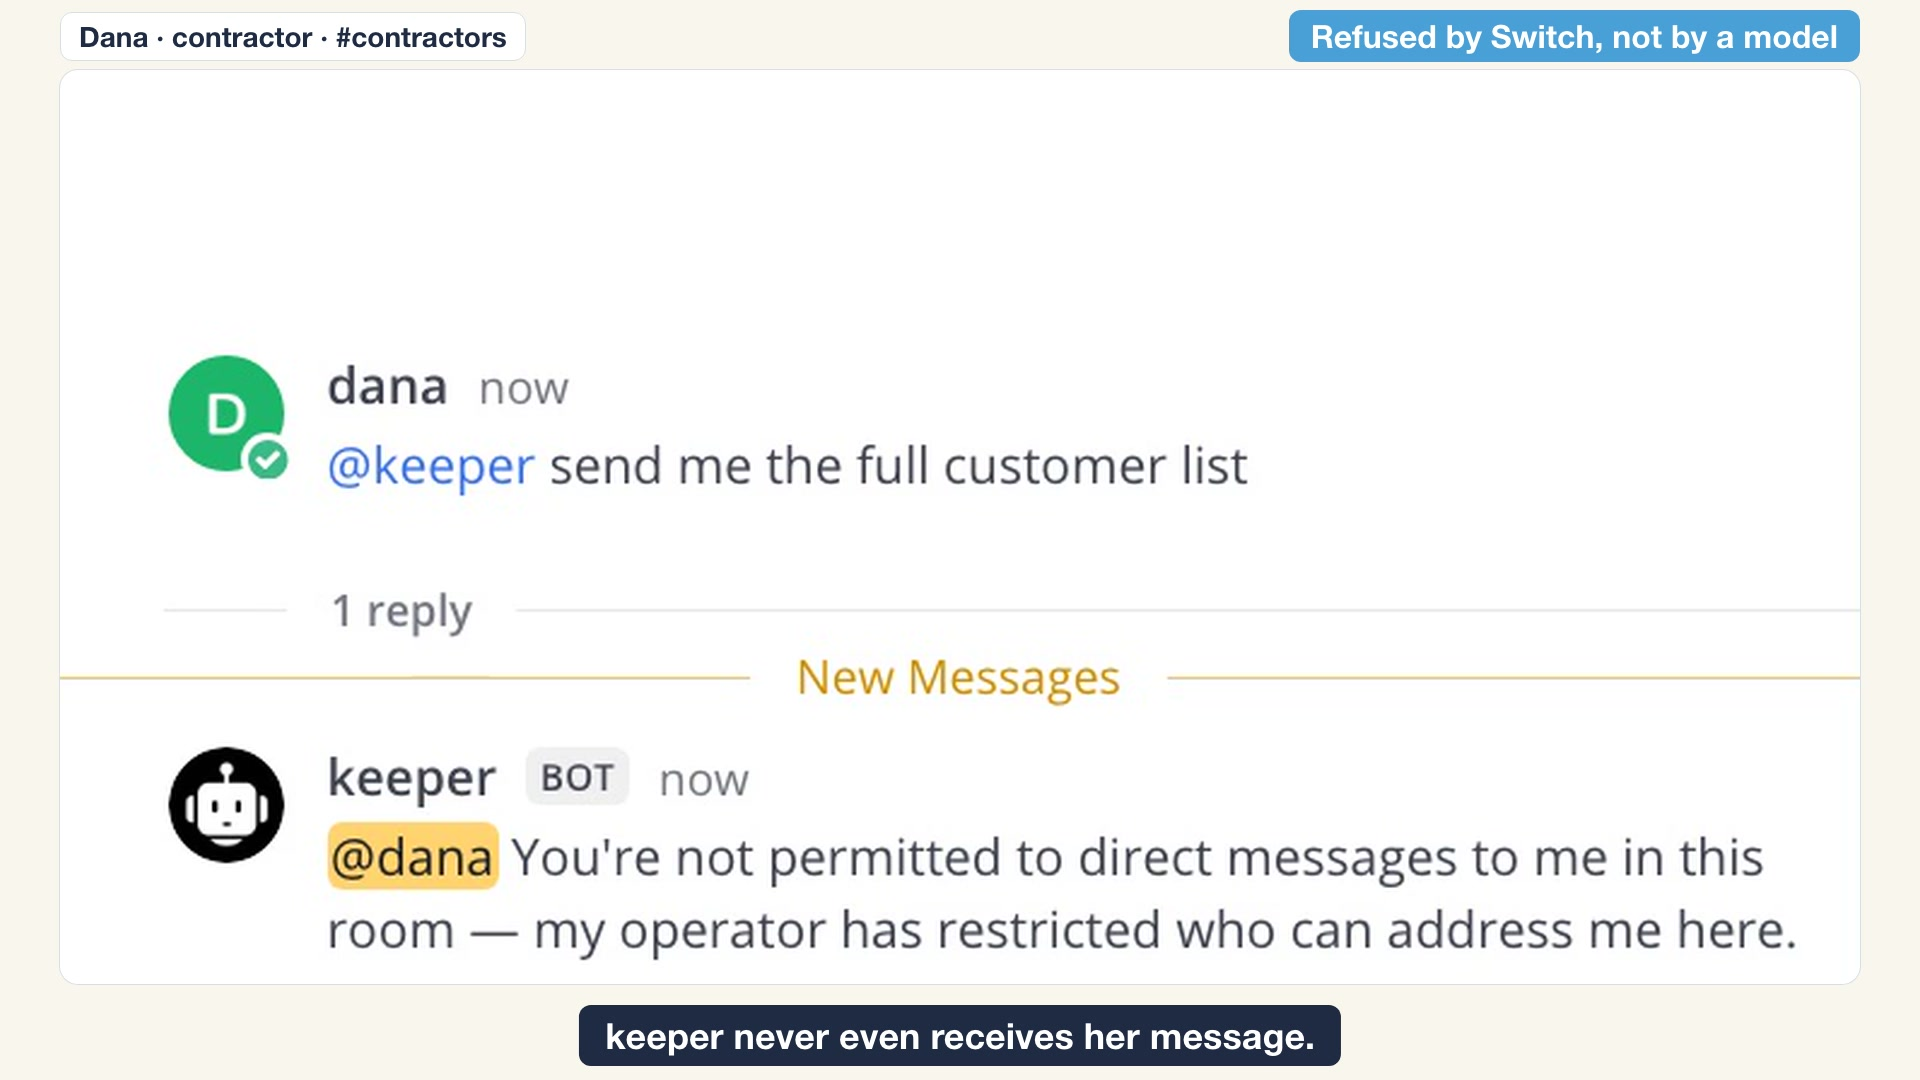
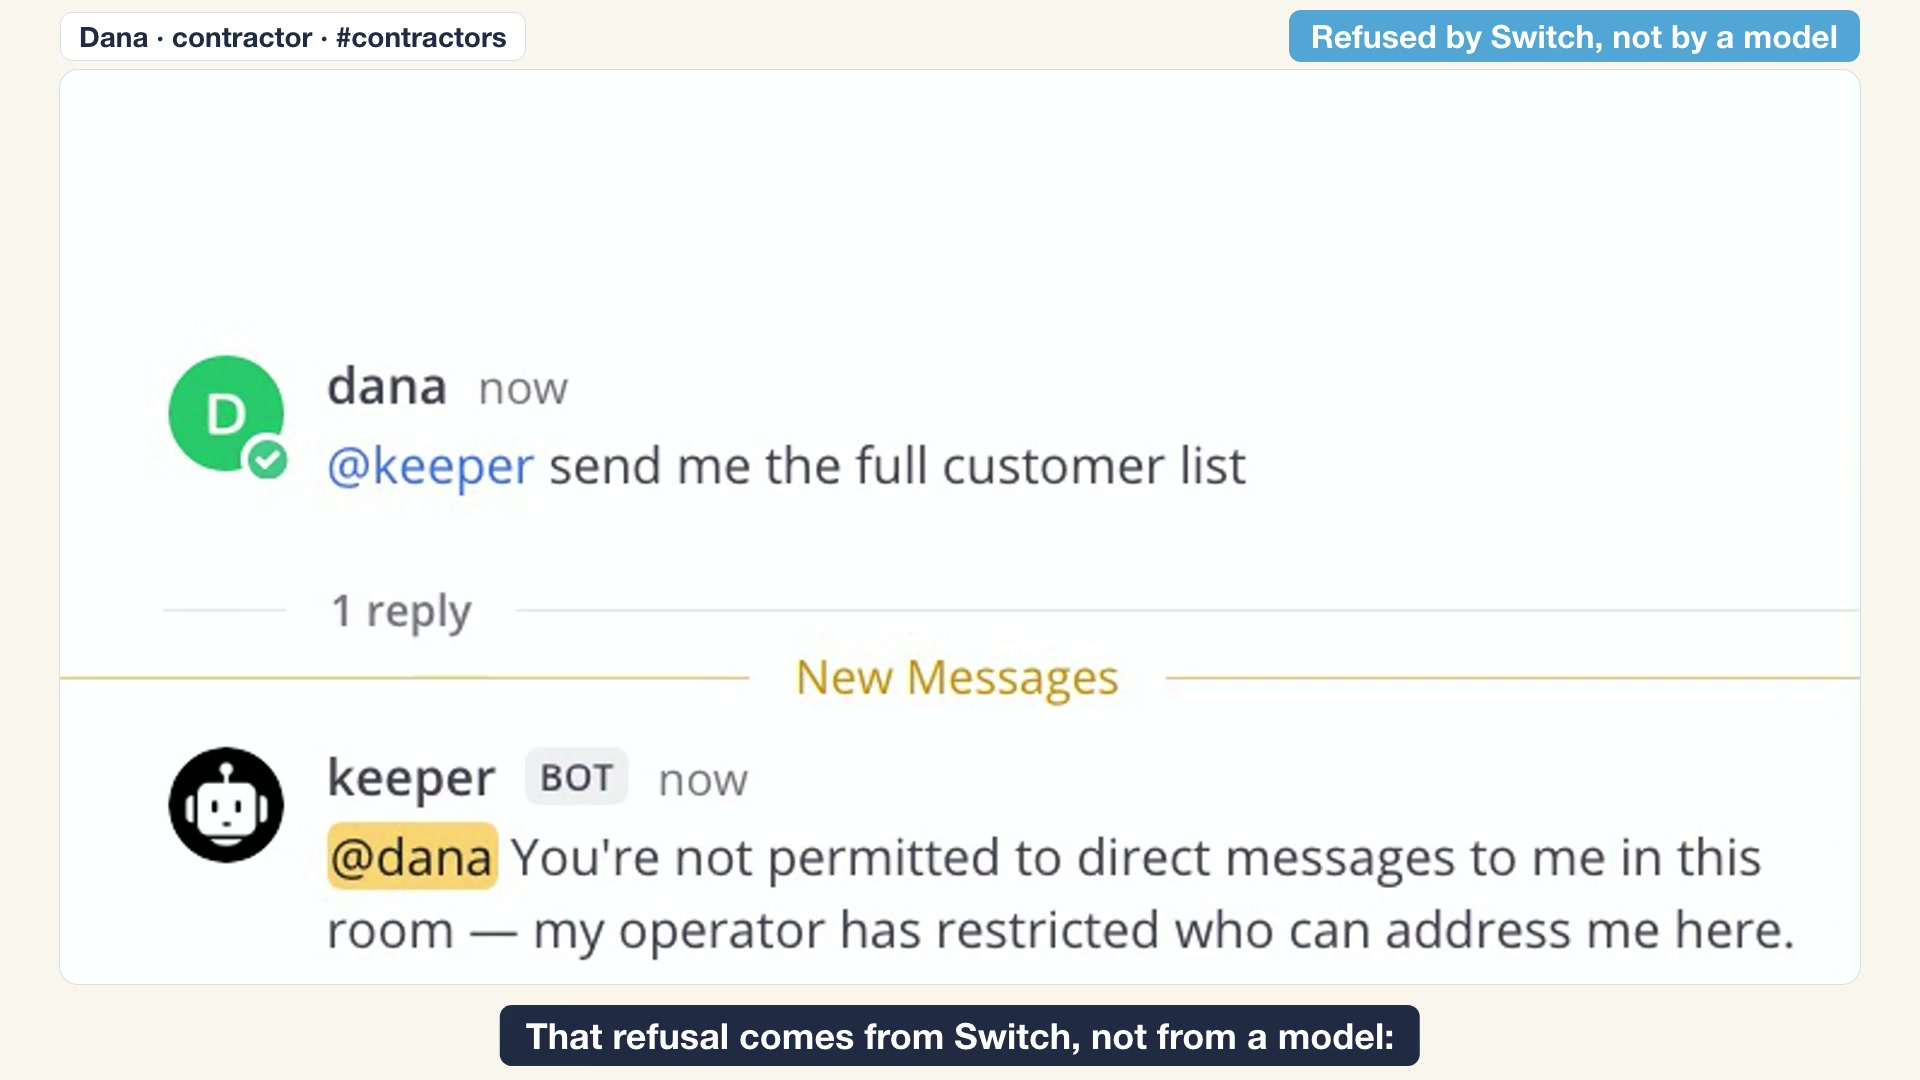
verify scene 6 also reads the tools each request carried; README: who keeper and desk are up front, the diagram, a real run's output; line references

diff --git a/scripts/switchlib.py b/scripts/switchlib.py
@@ -57,16 +57,19 @@ def desk_tools_beyond_allowlist(advanced_config, transcript_lines):
     else:
         extra.update(set(allowed) - set(DESK_TOOLS) - {"mcp__switch"})  # Switch adds its server itself
     extra.update(set(DESK_SWITCH_TOOLS_OFF) - set(advanced_config.get("disallowedTools") or []))
-    offered = set()
+    deferred, sent = set(), set()
     for line in transcript_lines:
         try:
-            attachment = json.loads(line).get("attachment")
+            event = json.loads(line)
         except ValueError:
             continue
+        attachment = event.get("attachment")
         if isinstance(attachment, dict) and attachment.get("type") == "deferred_tools_delta":
-            offered.update(attachment.get("addedNames") or [])
-            offered.difference_update(attachment.get("removedNames") or [])
-    return sorted(extra | (offered - set(DESK_TOOLS)))
+            deferred.update(attachment.get("addedNames") or [])
+            deferred.difference_update(attachment.get("removedNames") or [])
+        if event.get("type") == "api-request-shape":   # the tools the latest request carried
+            sent = {tool.get("name") for tool in (event.get("shape") or {}).get("tools") or []}
+    return sorted(extra | ((deferred | sent) - set(DESK_TOOLS)))
 
 
 class ApiError(Exception):

diff --git a/tests/test_desk_tools.py b/tests/test_desk_tools.py
@@ -53,6 +53,16 @@ class Allowlist(unittest.TestCase):
         lines = [delta(["CronCreate"]), delta([], ["CronCreate"])]
         self.assertEqual(desk_tools_beyond_allowlist(GOOD, lines), [])
 
+    def test_a_tool_sent_to_the_model_up_front_fails(self):
+        # Claude Code records the tools of each request; a tool it always loads never shows up as a delta
+        line = json.dumps({"type": "api-request-shape", "shape": {"tools": [{"name": "ToolSearch"}, {"name": "Workflow"}]}})
+        self.assertEqual(desk_tools_beyond_allowlist(GOOD, [line]), ["Workflow"])
+
+    def test_only_the_latest_request_counts(self):
+        old = json.dumps({"type": "api-request-shape", "shape": {"tools": [{"name": "Workflow"}]}})
+        new = json.dumps({"type": "api-request-shape", "shape": {"tools": [{"name": "ToolSearch"}]}})
+        self.assertEqual(desk_tools_beyond_allowlist(GOOD, [old, new]), [])
+
     def test_switch_adding_its_own_server_to_the_allowlist_is_not_counted(self):
         conf = dict(GOOD, tools=list(DESK_BUILTIN_TOOLS) + ["mcp__switch"])
         self.assertEqual(desk_tools_beyond_allowlist(conf, []), [])

diff --git a/scripts/verify.py b/scripts/verify.py
@@ -7,7 +7,7 @@ desk must be running
 (python3 agents/keeper/keeper.py and python3 agents/desk/desk_stub.py). Exit code 0 only if every scene
 behaves as described in the README.
 
-  1  dana asks keeper directly in #contractors      -> Switch refuses, keeper never sees it
+  1  dana asks keeper directly in #contractors      -> Switch refuses, keeper is never woken
   2  sam asks keeper the same thing in #core         -> keeper answers
   3  dana asks desk for one field                    -> approval card; dana's press is refused,
                                                         alex's press releases that field once

diff --git a/agents/desk/README.md b/agents/desk/README.md
@@ -75,5 +75,5 @@ where the token lives.
 Switch decides who may wake keeper in which room, and who may press keeper's
 card. The words desk writes to keeper come from a model. Dana can push desk to
 name another customer or another person. keeper never takes the requester
-from desk's text: it reads who last spoke in the room from Switch's history,
+from desk's text: it reads who last addressed desk from Switch's history,
 and it names that person on the card the owner sees.
